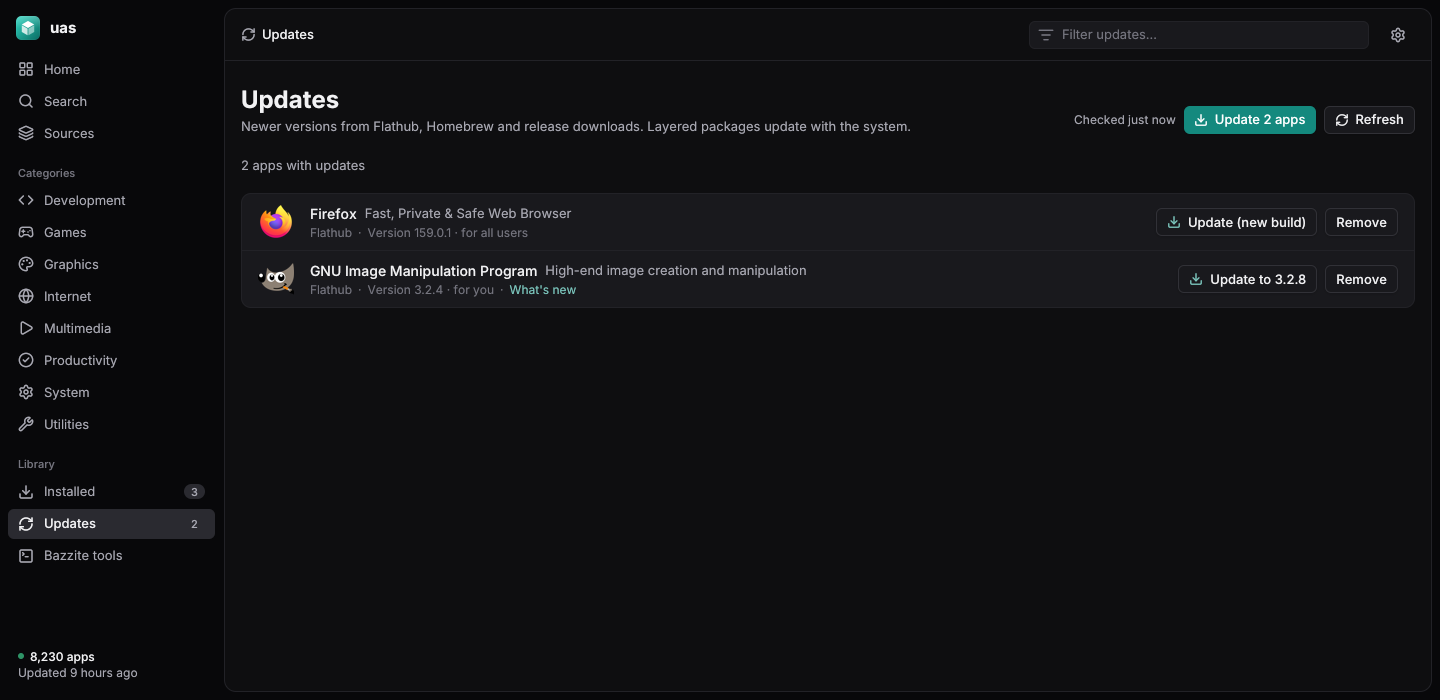
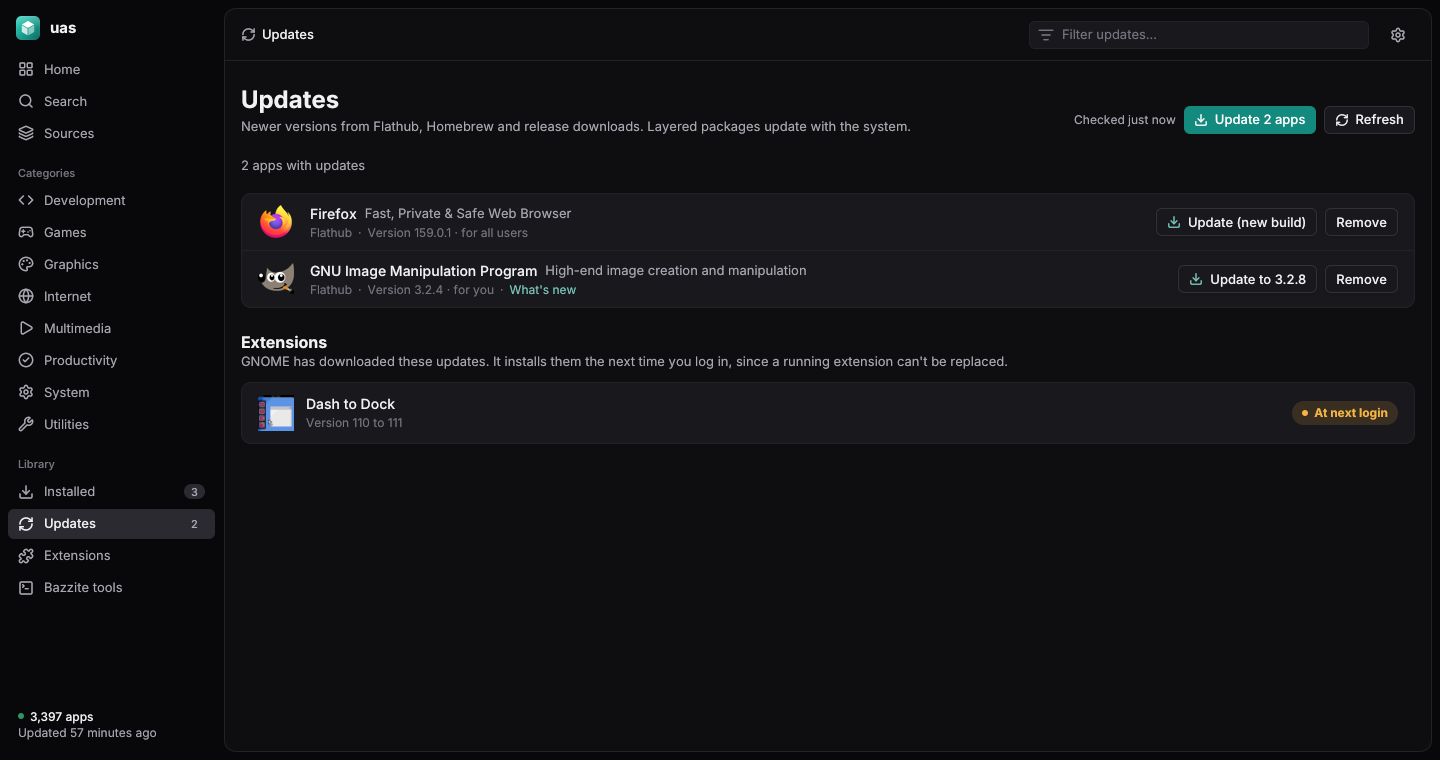
docs: extension updates and backups, with refreshed screenshots

diff --git a/docs/architecture.md b/docs/architecture.md
@@ -434,13 +434,29 @@ description (plain text, as its author wrote it), and Install or its switch. uas
 installing, since the Shell does. CLI: `uas extensions [list | search | install | remove | enable | disable |
 settings]`.
 
-Not yet: extensions aren't in exports, and the Updates page doesn't list them (the Shell applies their
-updates itself, at login).
+**Updates.** The Shell can't swap a running extension's code, so nothing installs an extension update
+before the next login, uas included. The Shell looks for updates of the user's extensions once a day (the
+system's update with the system), unpacks each one into `~/.local/share/gnome-shell/extension-updates/<uuid>`
+and marks the extension `hasUpdate`; at login it moves them into place. uas shows that state: the Updates
+page lists those extensions in their own section as "At next login", with the installed version and the
+downloaded one (read from the download's `metadata.json`), and Update all and the sidebar's count leave them
+out, since there is nothing to press. Opening or refreshing the page asks the Shell to look now
+(`CheckForUpdates`), at most once an hour unless Refresh is pressed, since each look asks
+extensions.gnome.org. `uas updates` lists them too, and the background check names them in its notification
+(it reads what the Shell has found and doesn't ask it to look).
+
+**Backups.** An export lists the extensions worth restoring (`extensions`: UUID, name, on or off): every one
+the user added, and the system's that are switched on. Restoring installs the ones that aren't on the system
+when extensions.gnome.org has a version for its GNOME release (the Shell asks about each), switches a newly
+installed one off again if it was off, and switches on the ones that are there but off. It never switches
+anything off, and it says why for the rest ("no version for GNOME 51", "came with Bazzite"). Extensions'
+own settings (dconf) aren't exported. Older versions of uas ignore the field, so the export format is still
+version 1.
 
 ### Back up and restore
 
 `session/export.go`. An export is JSON: each installed app's source, ref, app ID, package and name, the
-Flatpak scope setting, and the user's Flatpak overrides (the files under `~/.local/share/flatpak/overrides`),
+GNOME Shell extensions (see above), the Flatpak scope setting, and the user's Flatpak overrides (the files under `~/.local/share/flatpak/overrides`),
 with no paths or user names. Restoring plans each app: already installed (from any source) is skipped; the
 same listing is installed when this system supports it; otherwise the same source's other listing (another
 Fedora release), else the source uas recommends ("from Flathub instead of Fedora"). Two exported copies of

diff --git a/README.md b/README.md
@@ -32,13 +32,13 @@ COPR packages, searched and installed from one place.
 - **Flatpak permissions.** Turn an app's network, file, device or sound access on or off, as Flatseal does.
 - **GNOME extensions.** On GNOME, an Extensions page lists every extension on the system, whichever app
   installed it, with its switch, settings and removal, and searches the ones extensions.gnome.org has for
-  your version of GNOME. GNOME Shell does the installing.
+  your version of GNOME. GNOME Shell does the installing, and its extension updates show under Updates.
 - **Your system's own tools.** On Bazzite, Bluefin and Aurora, the ujust commands (drivers, CoolerControl,
   Waydroid, audio tweaks…) are listed by group and run in a terminal window.
 - **Update notifications.** Optionally, uas checks once a day and tells you when updates are ready. It never
   installs anything on its own.
-- **Back up and restore.** Export the list of installed apps and install them on another computer, from
-  whatever source fits it, with your Flatpak permission changes.
+- **Back up and restore.** Export the list of installed apps and GNOME extensions and install them on
+  another computer, from whatever source fits it, with your Flatpak permission changes.
 - **AppImages too.** Add one you downloaded and uas keeps it updated and in your app menu.
 - **A signed catalog,** rebuilt every 6 hours and verified before use.
 - **Updates itself** from signed releases.
@@ -66,7 +66,7 @@ COPR packages, searched and installed from one place.
   </tr>
   <tr>
     <td width="50%"><img src="docs/screenshots/whats-new.png" alt="An update's What's new: the release notes since the installed version"></td>
-    <td width="50%"><img src="docs/screenshots/updates.png" alt="Updates, with a What's new link, a new build of the same version, and when updates were last checked"></td>
+    <td width="50%"><img src="docs/screenshots/updates.png" alt="Updates, with a What's new link, a new build of the same version, when updates were last checked, and an extension update waiting for the next login"></td>
   </tr>
   <tr>
     <td align="center">What's new</td>
